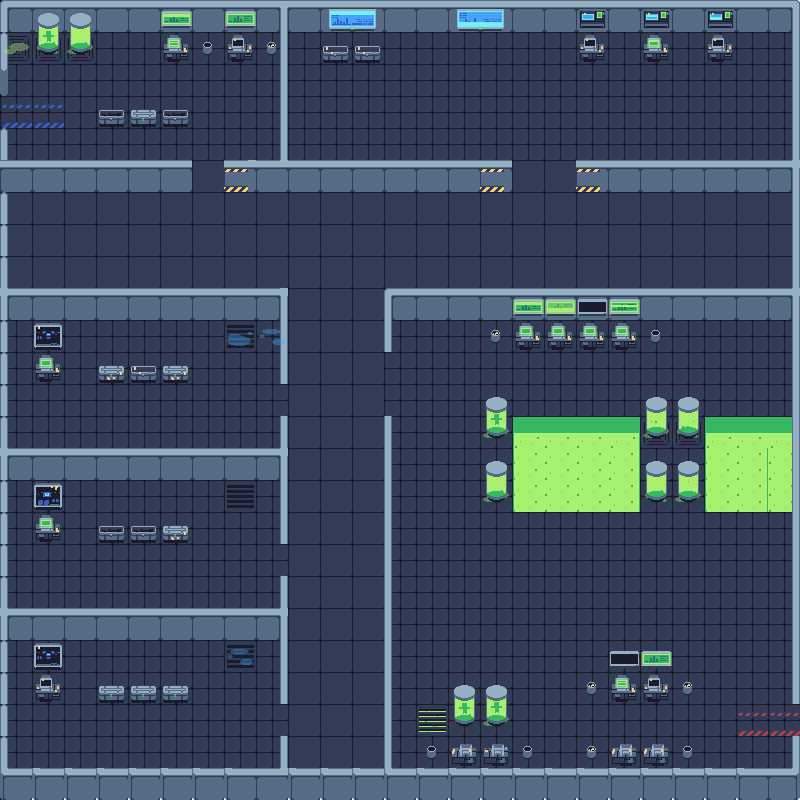
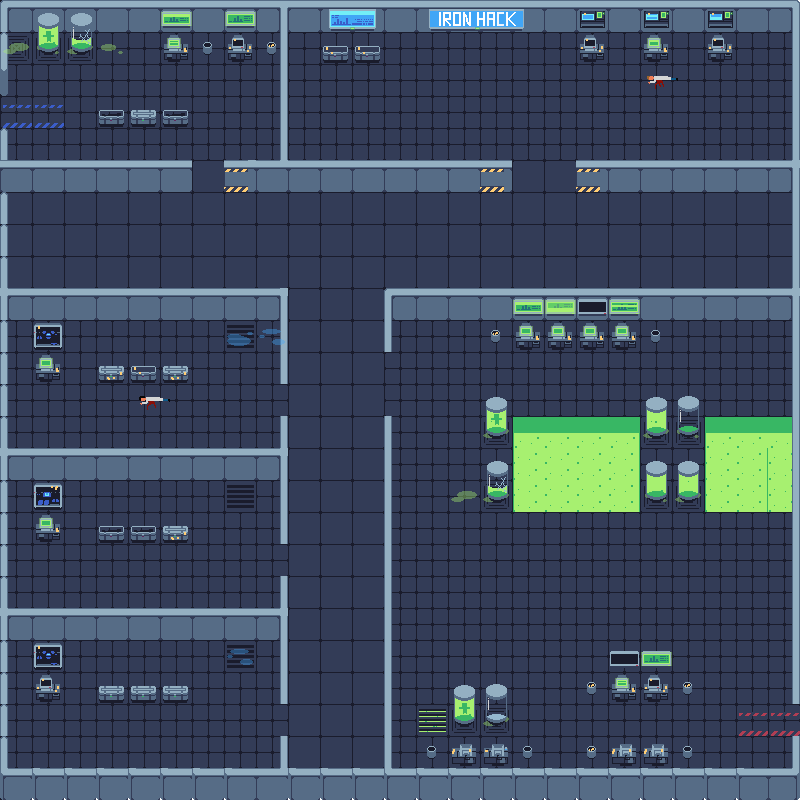
Map changed and added multiple enemies movement

diff --git a/src/enemies.js b/src/enemies.js
@@ -1,6 +1,7 @@
 class Enemy{
-    constructor(image, x ,y , width, height, healthPoints, attackPoints){
-        this.image = image;
+    constructor(x ,y , width, height, healthPoints, attackPoints){
+        this.image = new Image();
+        this.image.src = './images/enemies/enemy_1_left.png';
         this.healthImg = new Image();          
         this.x = x;
         this.y = y;
@@ -8,14 +9,58 @@ class Enemy{
         this.height = height;
         this.healthPoints = healthPoints;
         this.attackPoints = attackPoints;
+        this.attackAllowed = false;
+        this.path;
+    }
+
+    checkZone(){
+        if (this.x >= 288 && this.y <=128 && hero.x >= 288 && hero.y <=128 ){
+            //Sala ironhack
+            this.attackAllowed = true;
+        }else if (this.x < 288 && this.y >= 320 && this.y < 480 && hero.x < 288 && hero.y >= 320 && hero.y < 480 ){
+            //Sala petita 1
+            this.attackAllowed = true;
+        }else if (this.x < 288 && this.y >= 480 && this.y < 640 && hero.x < 288 && hero.y >= 480 && hero.y < 640 ){
+            //Sala petita 3
+        }else if (this.x < 288 && this.y >= 640 && this.y < 800 && hero.x < 288 && hero.y >= 640 && hero.y < 800 ){
+            this.attackAllowed = true;
+            this.attackAllowed = true;
+        }else if(this.x >= 384 && this.y >= 320 && hero.x >= 384 && hero.y >= 320){
+            //Sala gran
+            this.attackAllowed = true;     
+        }else if(this.y >= 192 && this.y < 320 && hero.y >= 192 && hero.y < 320){
+            //Passadís horitzontal 
+            this.attackAllowed = true;
+         }else if(this.y >= 288 && this.x >= 288 && this.x < 384 && hero.y >= 288 && hero.x >= 288 && hero.x < 384){
+            //Passadís vertical
+            this.attackAllowed = true;
+
+         }
+
     }
 
     move(){
-        if (this.x > this.pathToHeroX) this.x -= 1;
-        else if(this.x < this.pathToHeroX) this.x += 1;
-        if (this.y > this.pathToHeroY) this.y -= 1;
-        else if (this.y < this.pathToHeroX) this.y += 1;
+        this.checkZone();
+        if(this.attackAllowed){
+            if (this.x > this.pathToHeroX){
+                this.image.src = './images/enemies/enemy_1_left.png';
+                this.x -= 1;
+            }
+            else if(this.x < this.pathToHeroX){
+                this.image.src = './images/enemies/enemy_1_right.png';
+                this.x += 1;
+            }
+            if (this.y > this.pathToHeroY){
+                this.y -= 1;
+            }
+            else if (this.y < this.pathToHeroY){
+                this.y += 1;
+            }
+        }
+
     }
+
+
     
     draw(){
         if (this.isAlive()){
@@ -41,6 +86,23 @@ class Enemy{
     
     isAlive(){
         return this.healthPoints > 0;
+    }
+
+    followHero(){
+        let nodes = buildNodes();
+        let rowEnemy = Math.floor(this.y/celPixels);
+        let columnEnemy = Math.floor(this.x/celPixels);
+        let rowHero = Math.floor(hero.y/celPixels);
+        let columnHero = Math.floor(hero.x/celPixels);
+    
+        this.path = Pathfinder.findPath(nodes, nodes[rowEnemy][columnEnemy], nodes[rowHero][columnHero] );
+        if(this.path.length === 1){
+            this.pathToHeroY = this.path[0].px_x;
+            this.pathToHeroX = this.path[0].px_y;
+        }else if (this.path.length > 1){
+            this.pathToHeroY = this.path[1].px_x;
+            this.pathToHeroX = this.path[1].px_y;
+        }
     }
     
 

diff --git a/src/index.js b/src/index.js
@@ -127,7 +127,7 @@ function spawnEnemies(numEnemies){
             if(collisionArray[row][column] === 0 && collisionArray[row+1][column] === 0) created = true;
         }
         totalEnemies.push(
-            new Enemy(enemyImg, column*celPixels, row*celPixels, celPixels, celPixels, 6, 1)
+            new Enemy(column*celPixels, row*celPixels, celPixels, celPixels, 6, 1)
         )
 
 
@@ -159,7 +159,7 @@ function buildNodes(){
 //The Game Loop
 
 function initialLoad(){
-    spawnEnemies(1);
+    spawnEnemies(10);
     buildNodes();
     loop()
 }
@@ -176,23 +176,9 @@ function loop() {
     for(let enemy of totalEnemies){
         draw(enemy)
        enemy.move()
-    }
-    let nodes = buildNodes();
-    let rowEnemy = Math.floor(totalEnemies[0].y/celPixels);
-    let columnEnemy = Math.floor(totalEnemies[0].x/celPixels);
-    let rowHero = Math.floor(hero.y/celPixels);
-    let columnHero = Math.floor(hero.x/celPixels);
-    let path = Pathfinder.findPath(nodes, nodes[rowEnemy][columnEnemy], nodes[rowHero][columnHero] );
-    
-    if(path.length === 1){
-        totalEnemies[0].pathToHeroY = path[0].px_x;
-        totalEnemies[0].pathToHeroX = path[0].px_y;
-    }else if (path.length > 1){
-        totalEnemies[0].pathToHeroY = path[1].px_x;
-        totalEnemies[0].pathToHeroX = path[1].px_y;
-    }
+       enemy.followHero();
 
-
+    }    
     requestAnimationFrame(loop);
 }
 
